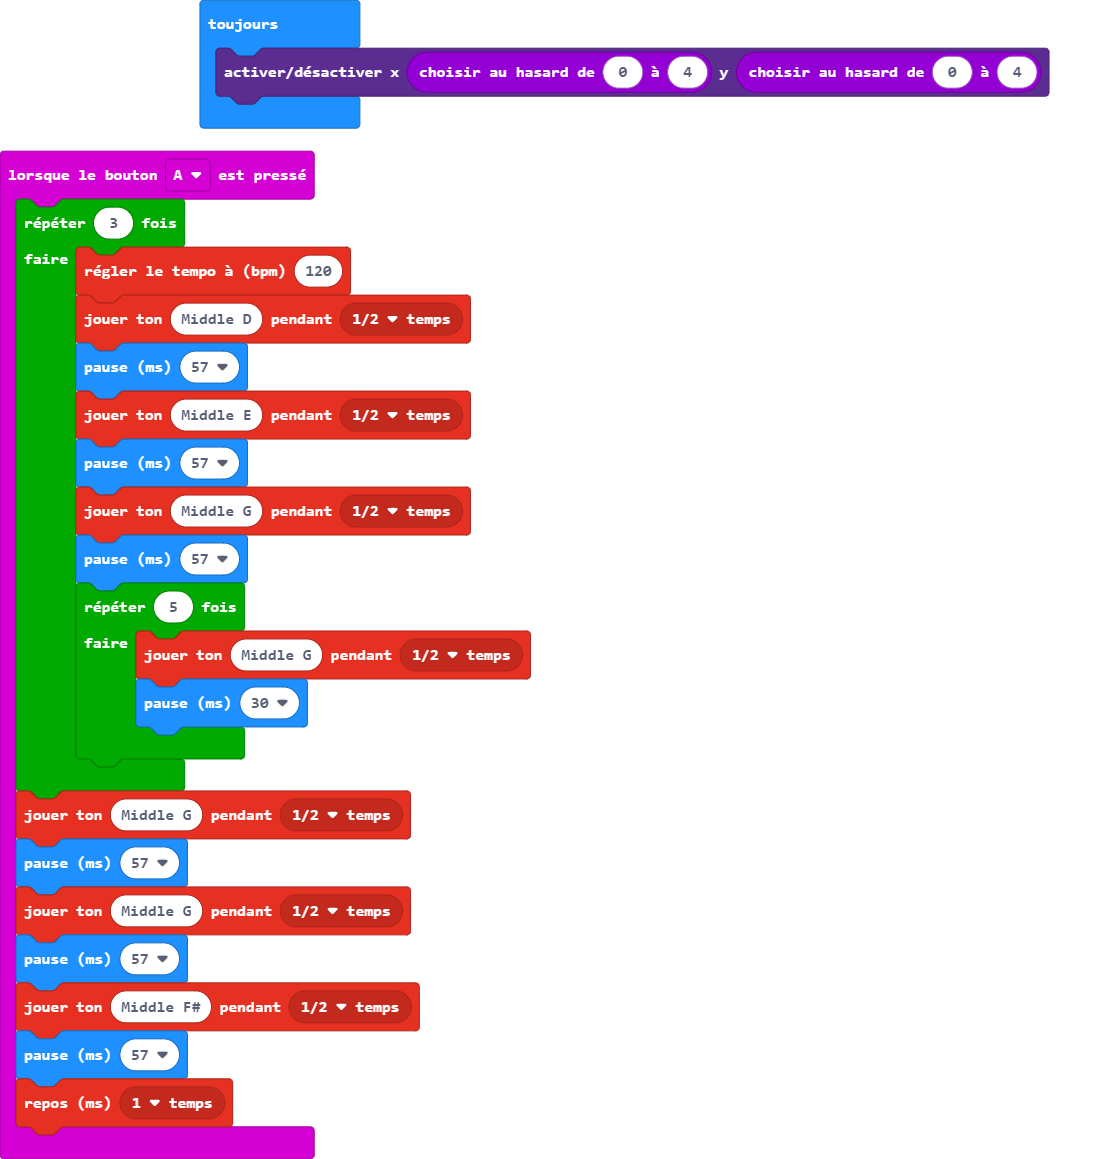
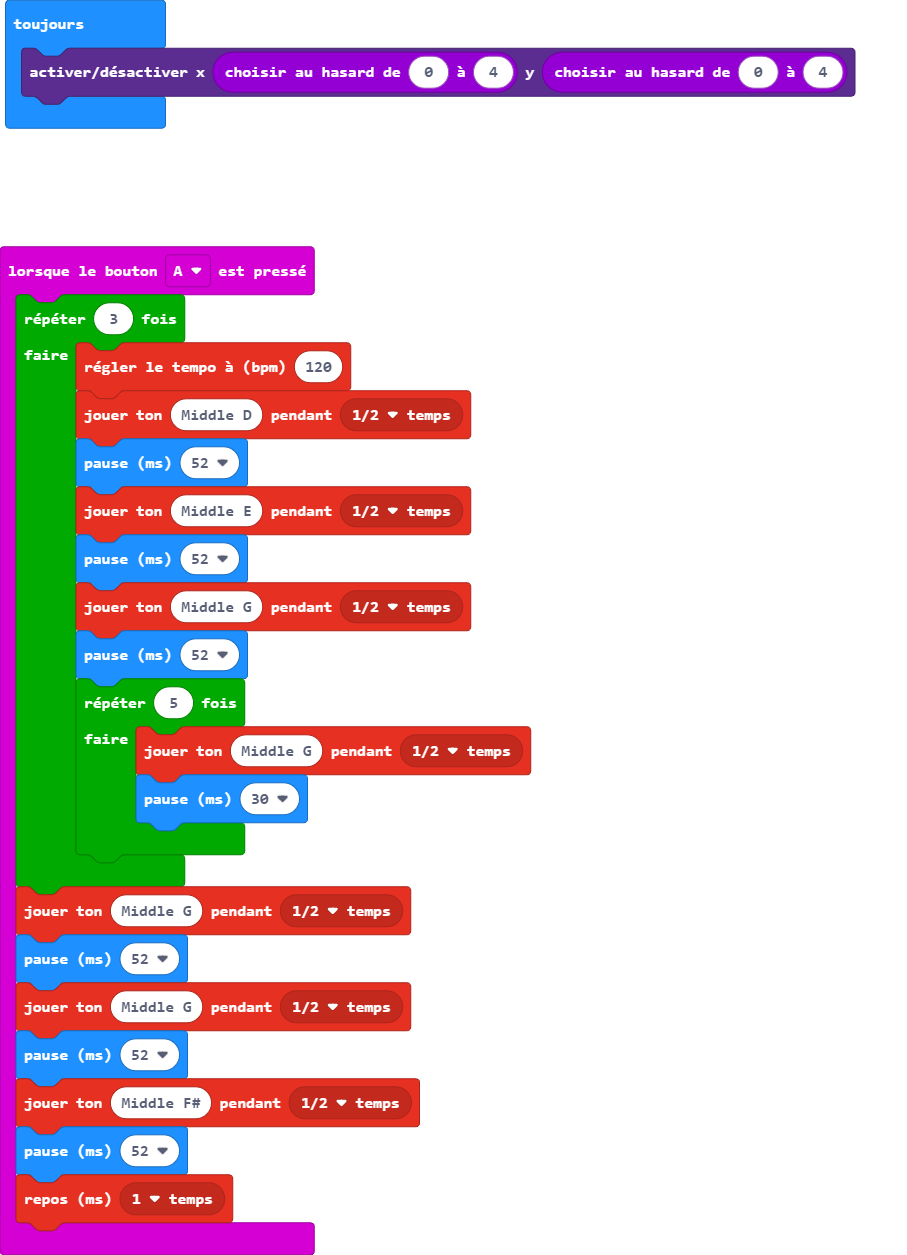
Mise à jour main.blocks, main.ts

Changed region(s): [[0.0, 0.0, 0.957, 1.0]]

diff --git a/main.ts b/main.ts
@@ -2,22 +2,22 @@ input.onButtonPressed(Button.A, function () {
     for (let index = 0; index < 3; index++) {
         music.setTempo(120)
         music.playTone(294, music.beat(BeatFraction.Half))
-        basic.pause(57)
+        basic.pause(52)
         music.playTone(330, music.beat(BeatFraction.Half))
-        basic.pause(57)
+        basic.pause(52)
         music.playTone(392, music.beat(BeatFraction.Half))
-        basic.pause(57)
+        basic.pause(52)
         for (let index = 0; index < 5; index++) {
             music.playTone(392, music.beat(BeatFraction.Half))
             basic.pause(30)
         }
     }
     music.playTone(392, music.beat(BeatFraction.Half))
-    basic.pause(57)
+    basic.pause(52)
     music.playTone(392, music.beat(BeatFraction.Half))
-    basic.pause(57)
+    basic.pause(52)
     music.playTone(370, music.beat(BeatFraction.Half))
-    basic.pause(57)
+    basic.pause(52)
     music.rest(music.beat(BeatFraction.Whole))
 })
 basic.forever(function () {
